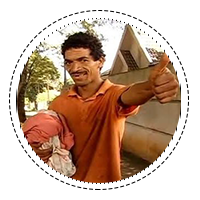
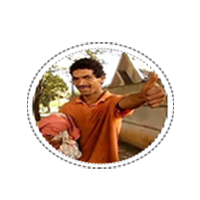
"finalizado"

diff --git a/meuestilo.css b/meuestilo.css
@@ -26,20 +26,37 @@ body{
     text-align: center;
 }
 
-.sl{
+.h4{
     text-transform: capitalize;
     color: white;
 }
 
+.fa-bell, .fa-cog, .fa-info-circle, .fa-sign-in-alt{
+    color:white;
+}
+
+h1{
+    color: white;
+    position: relative;
+    left: 50px;
+}
+.fa-search{
+    color: rgb(56, 55, 55);
+    position: relative;
+    left: 200px;
+    z-index: 2;
+}
+
 /*          picture          */
 .avatar{
-    background-image: url("/img/galo-cego.png");
+    background-image: url("img/galo-cego.png");
     background-repeat: no-repeat;
     padding: 10px;
     position: relative;
     right: -130px;
-    top: 10px;
-   
+    top: -5px;
+    height: auto;
+    width: 50px;
 }
 
 .welcome{
@@ -53,7 +70,7 @@ body{
 #picture h3{
     text-align: center;
     position: relative;
-    margin: 130px 200px 0px -60px;
+    margin: 170px 200px 0px -65px;
     text-transform: capitalize;
     color: white;
 }
@@ -61,8 +78,7 @@ body{
 #picture p{
     text-align: center;
     position: relative;
-    right: 120px;
-    left: -140px;
+    margin: 10px 200px 0px -65px;
     color: rgb(218, 218, 218);
 }
 
@@ -133,9 +149,12 @@ body{
     padding: 15px 15px 15px 15px;
     position: relative;
     bottom: 130px;
+    box-shadow: 0px -30px 2px -7px rgba(231, 231, 231, 0.8), 0px -58px 3px -17px rgba(255, 255, 255, 0.65), 0 4px 15px 0 rgba(0, 0, 0, 0.2), 0 6px 20px 0 rgba(0, 0, 0, 0.19);
     border-radius: 4%;
-    box-shadow: 0 4px 15px 0 rgba(0, 0, 0, 0.2), 0 6px 20px 0 rgba(0, 0, 0, 0.19);
 }
+
+    
+   
 
 .documents{
     background: rgb(255, 255, 255);
@@ -144,8 +163,8 @@ body{
     padding: 15px 15px 15px 15px;
     position: relative;
     bottom: 10px;
+    box-shadow: 0px -30px 2px -7px rgba(231, 231, 231, 0.8), 0px -58px 3px -17px rgba(255, 255, 255, 0.65), 0 4px 15px 0 rgba(0, 0, 0, 0.2), 0 6px 20px 0 rgba(0, 0, 0, 0.19);
     border-radius: 4%;
-    box-shadow: 0 4px 15px 0 rgba(0, 0, 0, 0.2), 0 6px 20px 0 rgba(0, 0, 0, 0.19);
 }
 
 .preference{
@@ -155,8 +174,8 @@ body{
     padding: 15px 15px 15px 15px;
     position: relative;
     bottom: 130px;
+    box-shadow: 0px -30px 2px -7px rgba(255, 255, 255, 0.8), 0px -58px 3px -17px rgba(255, 255, 255, 0.65), 0 4px 15px 0 rgba(0, 0, 0, 0.2), 0 6px 20px 0 rgba(0, 0, 0, 0.19);
     border-radius: 4%;
-    box-shadow: 0 4px 15px 0 rgba(0, 0, 0, 0.2), 0 6px 20px 0 rgba(0, 0, 0, 0.19);
 }
 
 .earn{
@@ -166,8 +185,8 @@ body{
     padding: 15px 15px 15px 15px;
     position: relative;
     bottom: 10px;
+    box-shadow: 0px -30px 2px -7px rgba(235, 235, 235, 0.8), 0px -58px 3px -17px rgba(255, 255, 255, 0.65), 0 4px 15px 0 rgba(0, 0, 0, 0.2), 0 6px 20px 0 rgba(0, 0, 0, 0.19);
     border-radius: 4%;
-    box-shadow: 0 4px 15px 0 rgba(0, 0, 0, 0.2), 0 6px 20px 0 rgba(0, 0, 0, 0.19);
 }
 
 .message{
@@ -177,8 +196,8 @@ body{
     padding: 15px 15px 15px 15px;
     position: relative;
     bottom: 130px;
+    box-shadow: 0px -30px 2px -7px rgba(235, 235, 235, 0.8), 0px -58px 3px -17px rgba(255, 255, 255, 0.65), 0 4px 15px 0 rgba(0, 0, 0, 0.2), 0 6px 20px 0 rgba(0, 0, 0, 0.19);
     border-radius: 4%;
-    box-shadow: 0 4px 15px 0 rgba(0, 0, 0, 0.2), 0 6px 20px 0 rgba(0, 0, 0, 0.19);
 }
 
 .fee{
@@ -188,8 +207,8 @@ body{
     padding: 15px 15px 15px 15px;
     position: relative;
     bottom: 10px;
+    box-shadow: 0px -30px 2px -7px rgba(235, 235, 235, 0.8), 0px -58px 3px -17px rgba(255, 255, 255, 0.65), 0 4px 15px 0 rgba(0, 0, 0, 0.2), 0 6px 20px 0 rgba(0, 0, 0, 0.19);
     border-radius: 4%;
-    box-shadow: 0 4px 15px 0 rgba(0, 0, 0, 0.2), 0 6px 20px 0 rgba(0, 0, 0, 0.19);
 }
 
 #dashboard h3{

diff --git a/index.html b/index.html
@@ -23,16 +23,20 @@
                 <div class="col-lg-3 logo">
                     <nav class="navbar">
                         <a class="navbar-brand" href="#">
-                            <img src="/img/logo.jpg">
+                            <h1>Logo</h1>
                         </a>
                     </nav>
                 </div>
                 <div class="col-lg-6 home search">
                     <nav class="navbar">
-                        <a class="navbar-brand sl">students dashbar/Home</a>
+                        <a class="navbar-brand sl">
+                            <h4>students dashbar/Home</h4>
+                        </a>
                         <form class="form-inline">
-                            <button class="btn btn-outline-success my-2 my-sm-0" type="submit">Search</button>
-                            <input class="form-control mr-sm-2" type="search" placeholder="Search" aria-label="Search">
+                            <button class="btn" type="submit">
+                                <i class="fas fa-search"></i>
+                            </button>
+                            <input class="form-control mr-sm-2" type="search" placeholder="Busca" aria-label="Search">
                         </form>
                     </nav>
                 </div>
@@ -67,9 +71,6 @@
         <div class="container-fluid">
             <div class="row">
                 <div class="col-lg-3 avatar">
-                    <div class="row">
-                        <div class="col-lg-12 avatar"></div>
-                    </div>
                     <div class="row">
                         <div class="col-lg-12">
                             <h3>pedro henrique</h3>
